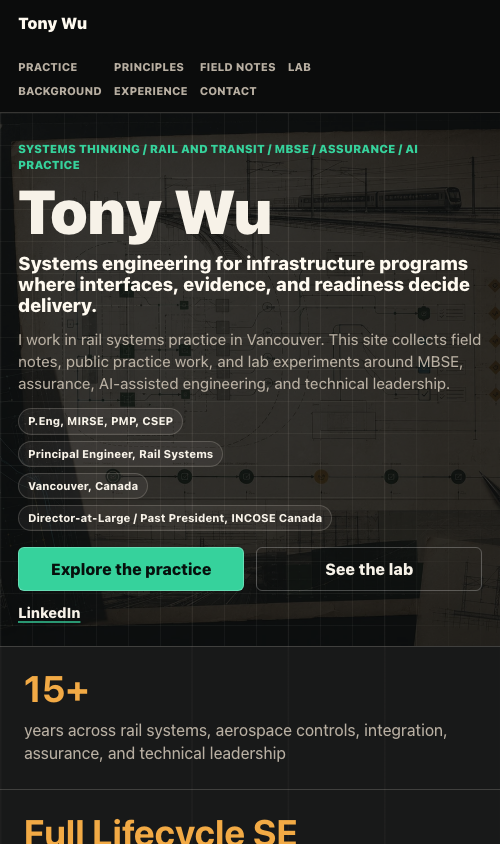
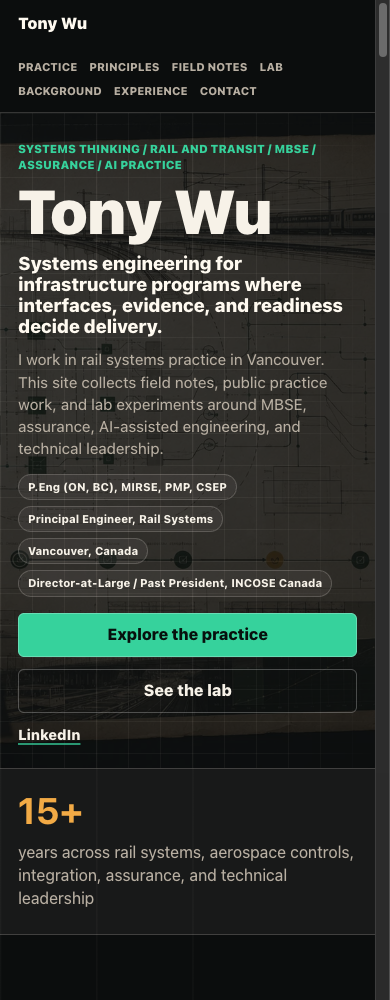
Fix mobile homepage overflow

diff --git a/src/styles.css b/src/styles.css
@@ -36,12 +36,14 @@
 
 html {
   scroll-behavior: smooth;
+  overflow-x: clip;
 }
 
 body {
   margin: 0;
   min-width: 320px;
   min-height: 100vh;
+  overflow-x: clip;
 }
 
 a {
@@ -67,7 +69,7 @@ img {
 }
 
 main {
-  overflow-x: hidden;
+  overflow-x: clip;
   background:
     repeating-linear-gradient(
       90deg,
@@ -1224,28 +1226,41 @@ code {
   }
 
   .site-nav__links {
-    display: grid;
-    grid-template-columns: repeat(4, max-content);
+    display: flex;
+    flex-wrap: wrap;
     gap: 8px 12px;
     width: 100%;
     min-width: 0;
-    max-width: calc(100vw - 36px);
-    overflow: hidden;
+    max-width: 100%;
     font-size: 0.7rem;
+  }
+
+  .site-nav__links a {
     white-space: nowrap;
   }
 
   .hero {
+    display: block;
+    max-width: 100%;
     padding-inline: 18px;
     padding-top: 28px;
     padding-bottom: 22px;
-    overflow: hidden;
+    overflow: clip;
+  }
+
+  .hero * {
+    min-width: 0;
   }
 
   .hero__content {
-    max-width: calc(100vw - 36px);
+    max-width: 100%;
     width: 100%;
-    overflow: hidden;
+    overflow: visible;
+  }
+
+  .eyebrow {
+    max-width: 100%;
+    overflow-wrap: anywhere;
   }
 
   .hero h1 {
@@ -1255,11 +1270,13 @@ code {
   .hero__title {
     font-size: 1.16rem;
     max-width: 100%;
+    overflow-wrap: anywhere;
   }
 
   .hero__copy {
     margin-top: 12px;
     max-width: 100%;
+    overflow-wrap: anywhere;
   }
 
   h2 {
@@ -1292,15 +1309,15 @@ code {
 
   .hero__actions,
   .contact__links {
-    flex-direction: row;
+    display: grid;
+    grid-template-columns: 1fr;
     margin-top: 16px;
   }
 
   .button,
   .contact__links a {
     justify-content: center;
-    flex: 1 1 150px;
-    width: auto;
+    width: 100%;
     padding-inline: 12px;
   }
 
@@ -1349,6 +1366,14 @@ code {
     border-right: 0;
     border-bottom: 1px solid var(--line);
     min-height: auto;
+  }
+
+  .proof-strip__item {
+    padding-inline: 18px;
+  }
+
+  .proof-strip__item span {
+    overflow-wrap: anywhere;
   }
 
   .section {
